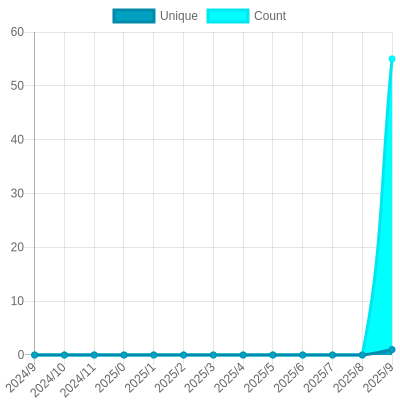
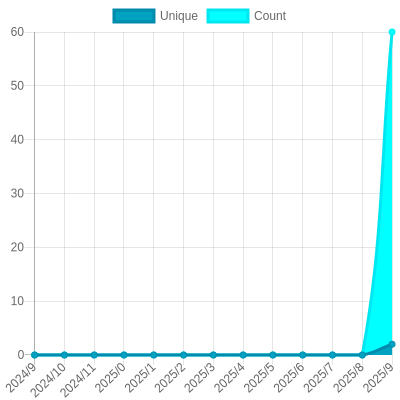
Update views

diff --git a/README.md b/README.md
@@ -26,7 +26,7 @@ The project created and maintained by [gayanvoice](https://github.com/gayanvoice
 			</a>
 		</td>
 		<td>
-			2024/10/22 12:08 AM UTC
+			2024/10/23 12:08 AM UTC
 		</td>
 		<td>
 			0
@@ -42,7 +42,7 @@ The project created and maintained by [gayanvoice](https://github.com/gayanvoice
 			</a>
 		</td>
 		<td>
-			2024/10/22 12:08 AM UTC
+			2024/10/23 12:08 AM UTC
 		</td>
 		<td>
 			1
@@ -58,13 +58,13 @@ The project created and maintained by [gayanvoice](https://github.com/gayanvoice
 			</a>
 		</td>
 		<td>
-			2024/10/22 12:08 AM UTC
+			2024/10/23 12:00 AM UTC
 		</td>
 		<td>
-			3
+			5
 		</td>
 		<td>
-			<img alt="Response time graph" src="https://github.com/wilfredopinom/my-views_counter/raw/master/graph/877262220/small/year.png" height="20"> 26
+			<img alt="Response time graph" src="https://github.com/wilfredopinom/my-views_counter/raw/master/graph/877262220/small/year.png" height="20"> 37
 		</td>
 	</tr>
 	<tr>
@@ -74,7 +74,7 @@ The project created and maintained by [gayanvoice](https://github.com/gayanvoice
 			</a>
 		</td>
 		<td>
-			2024/10/22 12:08 AM UTC
+			2024/10/23 12:08 AM UTC
 		</td>
 		<td>
 			1
@@ -90,7 +90,7 @@ The project created and maintained by [gayanvoice](https://github.com/gayanvoice
 			</a>
 		</td>
 		<td>
-			2024/10/22 12:08 AM UTC
+			2024/10/23 12:08 AM UTC
 		</td>
 		<td>
 			2
@@ -106,7 +106,7 @@ The project created and maintained by [gayanvoice](https://github.com/gayanvoice
 			</a>
 		</td>
 		<td>
-			2024/10/22 12:08 AM UTC
+			2024/10/23 12:08 AM UTC
 		</td>
 		<td>
 			0
@@ -122,7 +122,7 @@ The project created and maintained by [gayanvoice](https://github.com/gayanvoice
 			</a>
 		</td>
 		<td>
-			2024/10/22 12:09 AM UTC
+			2024/10/23 12:09 AM UTC
 		</td>
 		<td>
 			0
@@ -138,7 +138,7 @@ The project created and maintained by [gayanvoice](https://github.com/gayanvoice
 			</a>
 		</td>
 		<td>
-			2024/10/22 12:09 AM UTC
+			2024/10/23 12:09 AM UTC
 		</td>
 		<td>
 			0
@@ -154,7 +154,7 @@ The project created and maintained by [gayanvoice](https://github.com/gayanvoice
 			</a>
 		</td>
 		<td>
-			2024/10/22 12:09 AM UTC
+			2024/10/23 12:09 AM UTC
 		</td>
 		<td>
 			0
@@ -170,7 +170,7 @@ The project created and maintained by [gayanvoice](https://github.com/gayanvoice
 			</a>
 		</td>
 		<td>
-			2024/10/22 12:09 AM UTC
+			2024/10/23 12:09 AM UTC
 		</td>
 		<td>
 			0
@@ -186,7 +186,7 @@ The project created and maintained by [gayanvoice](https://github.com/gayanvoice
 			</a>
 		</td>
 		<td>
-			2024/10/22 12:09 AM UTC
+			2024/10/23 12:09 AM UTC
 		</td>
 		<td>
 			0
@@ -202,7 +202,7 @@ The project created and maintained by [gayanvoice](https://github.com/gayanvoice
 			</a>
 		</td>
 		<td>
-			2024/10/22 12:09 AM UTC
+			2024/10/23 12:09 AM UTC
 		</td>
 		<td>
 			0
@@ -218,7 +218,7 @@ The project created and maintained by [gayanvoice](https://github.com/gayanvoice
 			</a>
 		</td>
 		<td>
-			2024/10/22 12:09 AM UTC
+			2024/10/23 12:09 AM UTC
 		</td>
 		<td>
 			1
@@ -234,7 +234,7 @@ The project created and maintained by [gayanvoice](https://github.com/gayanvoice
 			</a>
 		</td>
 		<td>
-			2024/10/22 12:10 AM UTC
+			2024/10/23 12:10 AM UTC
 		</td>
 		<td>
 			0
@@ -250,7 +250,7 @@ The project created and maintained by [gayanvoice](https://github.com/gayanvoice
 			</a>
 		</td>
 		<td>
-			2024/10/22 12:10 AM UTC
+			2024/10/23 12:10 AM UTC
 		</td>
 		<td>
 			0
@@ -266,7 +266,7 @@ The project created and maintained by [gayanvoice](https://github.com/gayanvoice
 			</a>
 		</td>
 		<td>
-			2024/10/22 12:10 AM UTC
+			2024/10/23 12:10 AM UTC
 		</td>
 		<td>
 			0
@@ -282,7 +282,7 @@ The project created and maintained by [gayanvoice](https://github.com/gayanvoice
 			</a>
 		</td>
 		<td>
-			2024/10/22 12:10 AM UTC
+			2024/10/23 12:10 AM UTC
 		</td>
 		<td>
 			0
@@ -293,7 +293,7 @@ The project created and maintained by [gayanvoice](https://github.com/gayanvoice
 	</tr>
 </table>
 
-<small><i>Last updated on 2024/10/25 12:10 AM UTC</i></small>
+<small><i>Last updated on 2024/10/25 6:34 AM UTC</i></small>
 
 ## ✂Copy and 📋 Paste
 ### Total Views Badge

diff --git a/readme/877788075/year.md b/readme/877788075/year.md
@@ -23,10 +23,10 @@
 			<code>2024/10/1</code>
 		</td>
 		<td>
-			<code>1</code>
+			<code>2</code>
 		</td>
 		<td>
-			<code>55</code>
+			<code>60</code>
 		</td>
 	</tr>
 	<tr>
@@ -164,7 +164,7 @@
 </table>
 
 </details>
-<small><i>Last updated on 2024/10/25 12:08 AM UTC</i></small>
+<small><i>Last updated on 2024/10/25 6:32 AM UTC</i></small>
 
 ## ✂Copy and 📋 Paste
 ### SVG Badge

diff --git a/readme/803763063/year.md b/readme/803763063/year.md
@@ -164,7 +164,7 @@
 </table>
 
 </details>
-<small><i>Last updated on 2024/10/25 12:10 AM UTC</i></small>
+<small><i>Last updated on 2024/10/25 6:34 AM UTC</i></small>
 
 ## ✂Copy and 📋 Paste
 ### SVG Badge

diff --git a/readme/811493075/year.md b/readme/811493075/year.md
@@ -164,7 +164,7 @@
 </table>
 
 </details>
-<small><i>Last updated on 2024/10/25 12:09 AM UTC</i></small>
+<small><i>Last updated on 2024/10/25 6:33 AM UTC</i></small>
 
 ## ✂Copy and 📋 Paste
 ### SVG Badge

diff --git a/readme/817721168/year.md b/readme/817721168/year.md
@@ -164,7 +164,7 @@
 </table>
 
 </details>
-<small><i>Last updated on 2024/10/25 12:10 AM UTC</i></small>
+<small><i>Last updated on 2024/10/25 6:34 AM UTC</i></small>
 
 ## ✂Copy and 📋 Paste
 ### SVG Badge

diff --git a/readme/856885304/year.md b/readme/856885304/year.md
@@ -164,7 +164,7 @@
 </table>
 
 </details>
-<small><i>Last updated on 2024/10/25 12:09 AM UTC</i></small>
+<small><i>Last updated on 2024/10/25 6:33 AM UTC</i></small>
 
 ## ✂Copy and 📋 Paste
 ### SVG Badge

diff --git a/readme/857295408/year.md b/readme/857295408/year.md
@@ -164,7 +164,7 @@
 </table>
 
 </details>
-<small><i>Last updated on 2024/10/25 12:10 AM UTC</i></small>
+<small><i>Last updated on 2024/10/25 6:34 AM UTC</i></small>
 
 ## ✂Copy and 📋 Paste
 ### SVG Badge

diff --git a/readme/857322064/year.md b/readme/857322064/year.md
@@ -164,7 +164,7 @@
 </table>
 
 </details>
-<small><i>Last updated on 2024/10/25 12:10 AM UTC</i></small>
+<small><i>Last updated on 2024/10/25 6:34 AM UTC</i></small>
 
 ## ✂Copy and 📋 Paste
 ### SVG Badge

diff --git a/readme/857352945/year.md b/readme/857352945/year.md
@@ -164,7 +164,7 @@
 </table>
 
 </details>
-<small><i>Last updated on 2024/10/25 12:08 AM UTC</i></small>
+<small><i>Last updated on 2024/10/25 6:33 AM UTC</i></small>
 
 ## ✂Copy and 📋 Paste
 ### SVG Badge

diff --git a/readme/858019578/year.md b/readme/858019578/year.md
@@ -164,7 +164,7 @@
 </table>
 
 </details>
-<small><i>Last updated on 2024/10/25 12:09 AM UTC</i></small>
+<small><i>Last updated on 2024/10/25 6:33 AM UTC</i></small>
 
 ## ✂Copy and 📋 Paste
 ### SVG Badge

diff --git a/readme/858311554/year.md b/readme/858311554/year.md
@@ -164,7 +164,7 @@
 </table>
 
 </details>
-<small><i>Last updated on 2024/10/25 12:09 AM UTC</i></small>
+<small><i>Last updated on 2024/10/25 6:33 AM UTC</i></small>
 
 ## ✂Copy and 📋 Paste
 ### SVG Badge

diff --git a/readme/858679728/year.md b/readme/858679728/year.md
@@ -164,7 +164,7 @@
 </table>
 
 </details>
-<small><i>Last updated on 2024/10/25 12:09 AM UTC</i></small>
+<small><i>Last updated on 2024/10/25 6:33 AM UTC</i></small>
 
 ## ✂Copy and 📋 Paste
 ### SVG Badge
